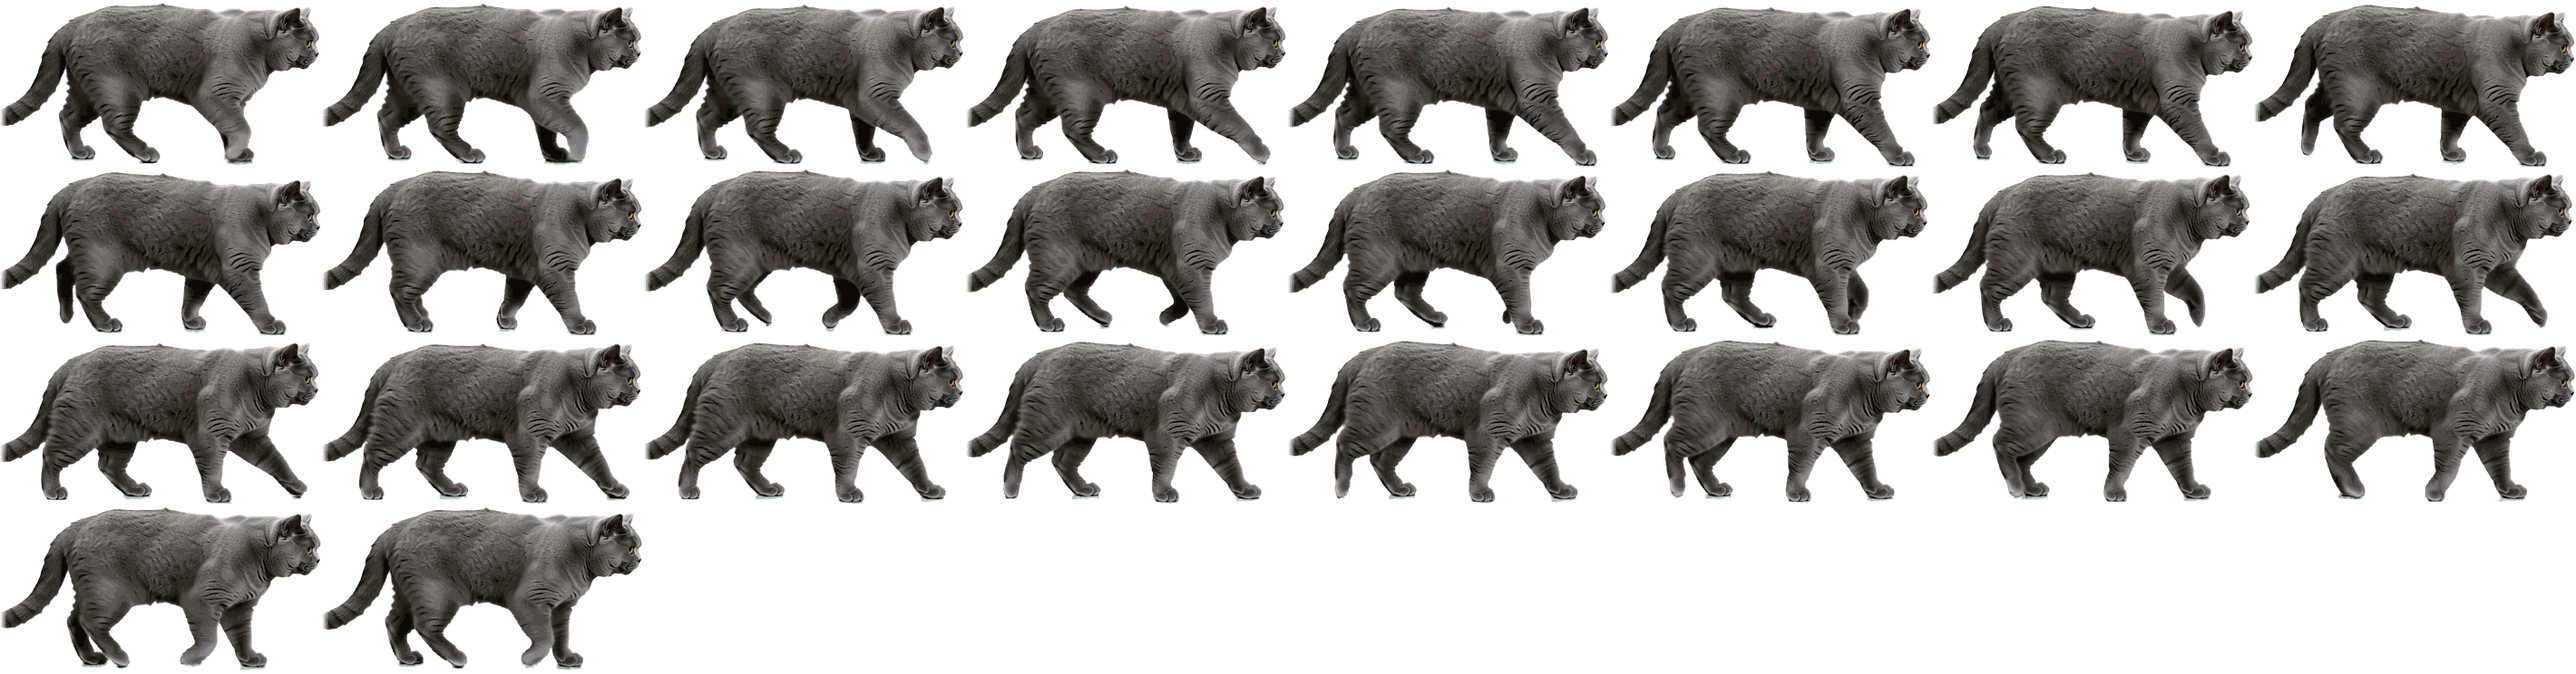
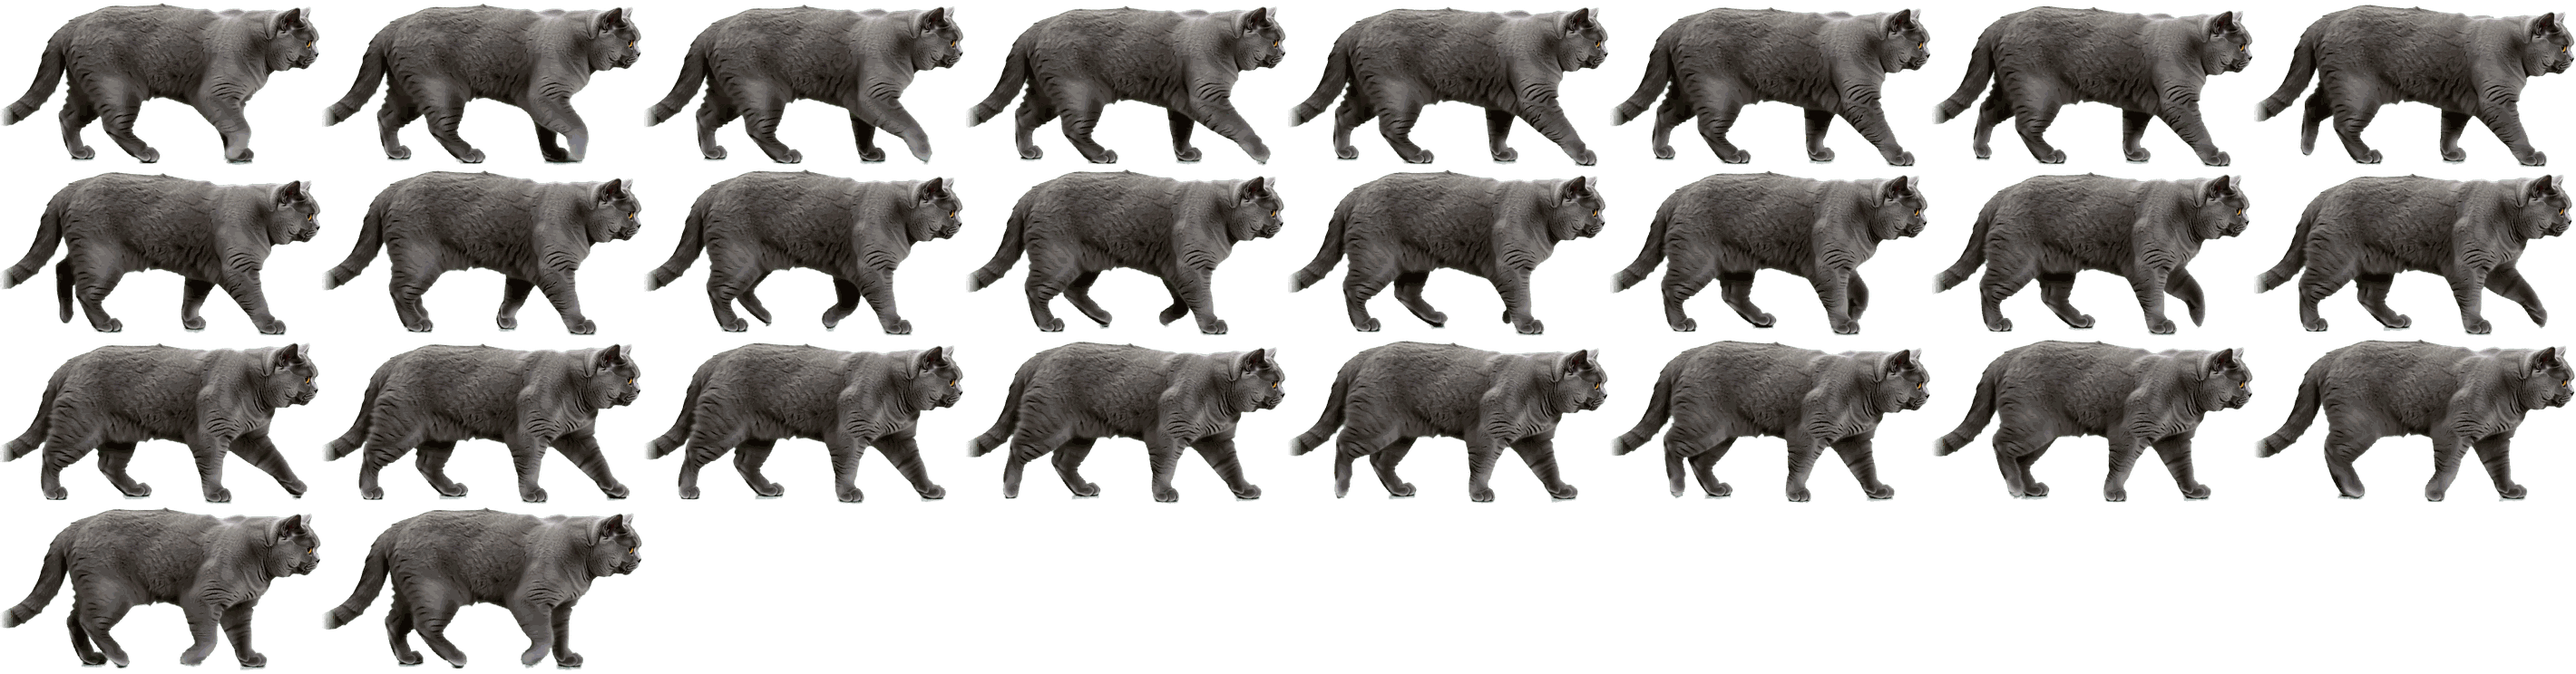
Avoid frames where the cat's tail runs out of the video
Several AI clips have the tail (or rear) outside the video frame, so the
sprites showed a tail that ends in a straight cut.

- Walk loops are picked from frames with the whole cat in view, when such
  a loop exists and actually loops.
- Sit-down clips skip walking frames where the cat is cut off (the walk
  clip covers that part), stand-up clips end before the walk-off runs
  out of the video.
- What can't be avoided (drinking, stretching) fades out over 56 px
  instead of 28 px, so the tail tapers instead of looking chopped.
- make_real_cats.py can rebuild single cats: make_real_cats.py realcat4.

Claude-Session: https://claude.ai/code/session_01SkLBmMFZDXZKgadQqfdbff

diff --git a/tools/make_real_cats.py b/tools/make_real_cats.py
@@ -111,7 +111,7 @@ COLUMNS = 8
 # cat is drawn ~370 px tall from ~230 px sprites: a bit soft, but keeps the app small.
 SCALE = 0.32
 AUTHOR = "htylab (AI-generated)"
-EDGE_FADE = 28         # px: soften a tail/paw that runs off the edge of the source frame
+EDGE_FADE = 56         # px: taper a tail/paw that runs off the edge of the source frame
 
 
 def api_hit(video_id):
@@ -202,18 +202,33 @@ def sitting_height(frames):
     return float(np.median([rows(f) for f in frames]))
 
 
+def cut_off(frame):
+    """True if the cat runs off the left, right or top edge of the source frame (e.g. its tail)."""
+    a = frame[..., 3] > 128
+    return a[:, :3].sum() > 5 or a[:, -3:].sum() > 5 or a[:3].sum() > 5
+
+
 def best_walk_loop(frames, min_len=8, max_len=40):
-    """Finds (start, length) whose first and last frames match best, i.e. one clean step cycle."""
+    """
+    Finds (start, length) whose first and last frames match best, i.e. one clean step
+    cycle, preferring a stretch where the whole cat (tail too) is inside the video.
+    """
     small = [np.array(Image.fromarray(f[..., 3]).resize((96, 54))).astype(np.float32) / 255 for f in frames]
-    best = None
-    for s in range(0, max(1, len(frames) - min_len)):
-        for n in range(min_len, max_len + 1):
-            if s + n >= len(frames):
-                break
-            d = np.abs(small[s] - small[s + n]).mean()
-            if best is None or d < best[0] - 1e-6:
-                best = (d, s, n)
-    return best[1], best[2], best[0]
+    cut = [cut_off(f) for f in frames]
+    for whole_cat in (True, False):
+        best = None
+        for s in range(0, max(1, len(frames) - min_len)):
+            for n in range(min_len, max_len + 1):
+                if s + n >= len(frames):
+                    break
+                if whole_cat and any(cut[s:s + n]):
+                    break
+                d = np.abs(small[s] - small[s + n]).mean()
+                if best is None or d < best[0] - 1e-6:
+                    best = (d, s, n)
+        # A whole-cat loop that doesn't really loop would stutter: a cut-off tail tip is better.
+        if best is not None and (best[0] < 0.03 or not whole_cat):
+            return best[1], best[2], best[0]
 
 
 def soften_edges(frames):
@@ -341,11 +356,26 @@ def fit_sizes(cat, clips):
 
 
 def main():
+    """python tools/make_real_cats.py [cat id ...]: rebuilds all cats, or only the given ones."""
+    only = set(sys.argv[1:])
     OUT.mkdir(parents=True, exist_ok=True)
-    for old in OUT.glob("*.png"):
-        old.unlink()
     sprites, credits, sets = [], [], []
+    if only:
+        # Keep the other cats as they are.
+        old = json.loads((OUT / "realcats.json").read_text(encoding="utf-8"))
+        rebuilt = {n for st in old["sets"] if st["id"] in only
+                   for n in st["emoji"] + st["walkers"] + st["sitDowns"] + st.get("standUps", []) + st["acts"]}
+        sprites = [x for x in old["sprites"] if x["name"] not in rebuilt]
+        credits = [x for x in old["credits"] if x["sprite"] not in rebuilt]
+        sets = [x for x in old["sets"] if x["id"] not in only]
+        for n in rebuilt:
+            (OUT / f"{n}.png").unlink(missing_ok=True)
+    else:
+        for old in OUT.glob("*.png"):
+            old.unlink()
     for cat in CATS:
+        if only and cat["id"] not in only:
+            continue
         clips = []
         for clip in cat["clips"]:
             auto = cat.get("fit") == "auto"
@@ -376,9 +406,21 @@ def main():
                 print(f"{name}: walk loop frames {s}..{s + n} (match error {err:.3f})")
             if clip["role"] == "sitdown":
                 stand = sit_start(clip, frames)
+                if clip.get("walks", True):
+                    # Walking frames with the tail outside the video are left out; the
+                    # walk clip covers that part of the approach instead.
+                    cut = [i for i in range(stand) if cut_off(frames[i])]
+                    if cut:
+                        frames, stand = frames[cut[-1] + 1:], stand - cut[-1] - 1
+                        print(f"{name}: skipped {cut[-1] + 1} walking frames with the cat cut off")
                 print(f"{name}: sits down from frame {stand} of {len(frames)}")
             if clip["role"] == "standup":
                 stand = min(len(frames) - 1, round(clip["walkStart"] * clip["fps"]))
+                # Likewise, end before the walk-off runs out of the video.
+                cut = next((i for i in range(stand + 1, len(frames)) if cut_off(frames[i])), None)
+                if cut is not None:
+                    print(f"{name}: dropped the last {len(frames) - cut} frames (cat cut off)")
+                    frames = frames[:cut]
                 print(f"{name}: walks from frame {stand} of {len(frames)}")
             soften_edges(frames)
             images = crop_and_scale(frames, clip.get("height"), scale)
@@ -410,6 +452,8 @@ def main():
         sets.append({"id": cat["id"], "name": cat["name"], "emoji": roles["sit"], "walkers": roles["walk"],
                      "sitDowns": roles["sitdown"], "standUps": roles["standup"], "acts": roles["act"]})
 
+    order = [c["id"] for c in CATS]
+    sets.sort(key=lambda st: order.index(st["id"]) if st["id"] in order else len(order))
     catalog = {"sprites": sprites, "sets": sets, "props": [], "credits": credits}
     (OUT / "realcats.json").write_text(json.dumps(catalog, indent=2, ensure_ascii=False) + "\n", encoding="utf-8")
     print("total", sum(p.stat().st_size for p in OUT.glob("*.png")) // 1024, "KB")
